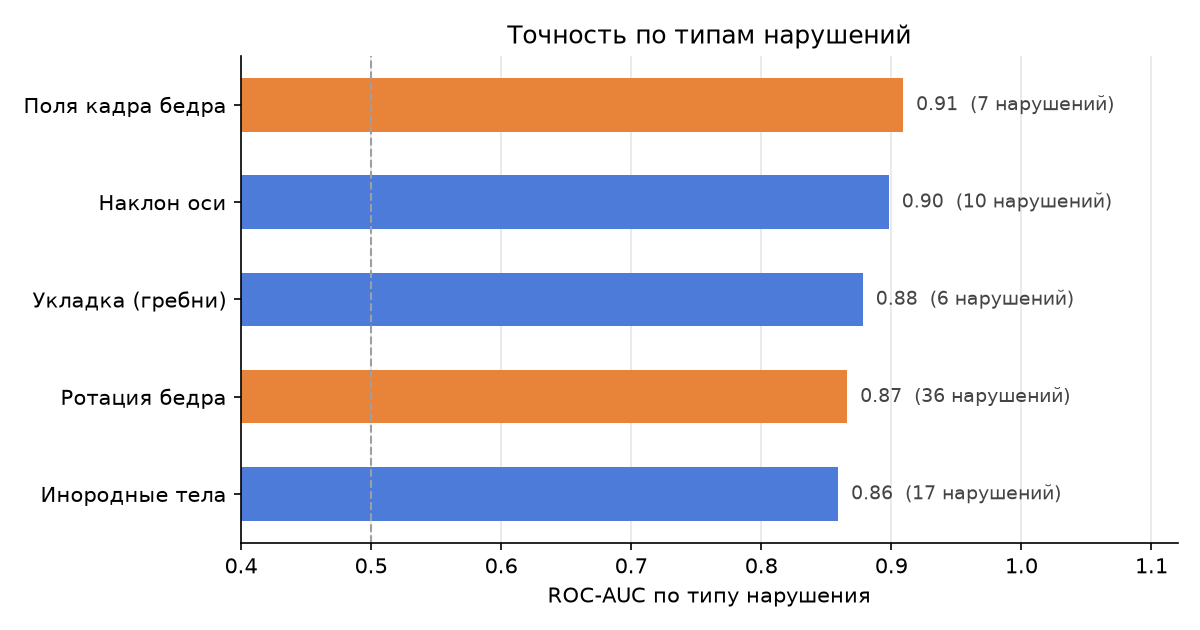
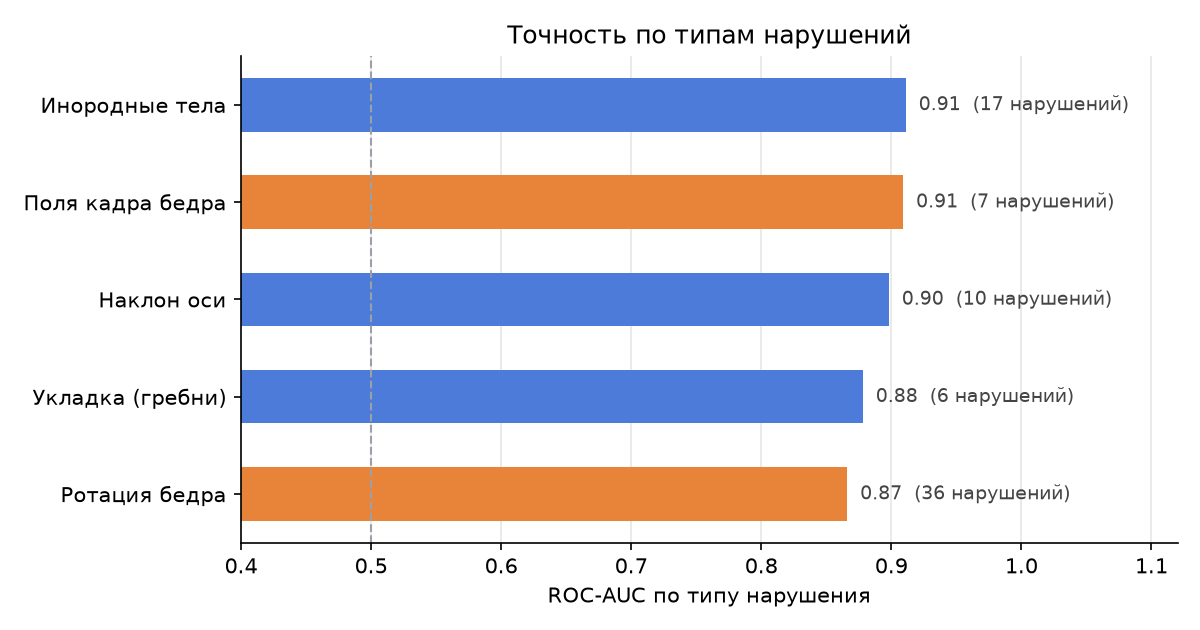
Отчёт и презентация: цифры после сегментационной сети

diff --git a/docs/night_report.md b/docs/night_report.md
@@ -547,6 +547,43 @@ F1 0.741, PR-AUC 0.690, чувствительность 0.83,
   минимум из трёх полей (0.893 сырым признаком, но в модели 0.875 против 0.909 у текущей пары).
   Ничего не выиграло.
 
+## 20. Ещё один заход по метрикам ТЗ
+
+**Инородные тела: два улучшения подряд, AUC типа 0.859 → 0.911, F1 0.709 → 0.797.**
+
+- Параметры детектора top-hat стояли «на глаз» с самого начала. Перебрали 27 сочетаний размера ядра,
+  порога и доли кадра сверху. Решает доля кадра: косточки белья и застёжки лежат в верхней **трети**,
+  а не в верхних 40 %. Выбор настроек внутри фолдов даёт честные 0.876 против 0.859.
+- Сегментационная сеть была обучена ещё ночью, но использовалась только для контура на картинке.
+  Теперь площадь найденного металла — второй признак в решении. На согласованных разбиениях:
+  ручной признак 0.898, сеть 0.822, вместе **0.911**. Оценка чуть оптимистична (OOF-оценки сети
+  получены на её собственном разбиении), поэтому доверять стоит именно этой паре чисел.
+
+**Проверено и отброшено в этом заходе:**
+
+- **устойчивость порогов к доле нарушений.** У нас 29 % плохих снимков, у организаторов в закрытом
+  наборе может быть больше. Порог по F1 зависит от доли, порог по сбалансированной точности — нет.
+  Смоделировали доли 29 / 40 / 50 %: наш выбор (по F1) остаётся лучшим везде (0.710 / 0.764 / 0.788
+  против 0.639 / 0.733 / 0.787). Менять не нужно, но теперь мы это знаем, а не предполагаем;
+- **второе бедро для полей кадра.** Для ротации подмешивание второго бедра дало +0.07 F1. Для полей
+  кадра корреляция между бёдрами всего 0.25 против 0.59 у ротации, и подмешивание только ухудшает
+  (0.911 → 0.899). Объяснение простое: ноги укладывают разом, а кадрирует лаборант каждое бедро
+  отдельно.
+
+**Текущие метрики:**
+
+| Разрез | ROC-AUC | PR-AUC | F1 | Чувств. | Специф. |
+|---|---|---|---|---|---|
+| По снимкам (249) | 0.878 | 0.770 | **0.747** | 0.82 | 0.85 |
+| По исследованиям (100) | 0.855 | 0.853 | **0.816** | 0.88 | 0.75 |
+| Позвоночник (99) | 0.857 | 0.713 | 0.706 | 0.77 | 0.81 |
+| Бёдра (150) | 0.902 | 0.833 | 0.778 | 0.85 | 0.87 |
+
+По типам: поля кадра 0.909, инородные тела 0.911,
+наклон оси 0.898, укладка позвоночника 0.878,
+ротация 0.866; macro-F1 0.604. Скорость 0.09 с на снимок,
+около 0.2 с на исследование.
+
 ## 6. Что дальше / вопросы
 
 - Пороги сейчас подобраны на максимум F1 по нашим меткам; для врача, возможно, важнее чувствительность — обсудить.

diff --git a/docs/presentation.md b/docs/presentation.md
@@ -4,8 +4,8 @@
 какая картинка, и что сказать голосом. Картинки — в `docs/figures/` (графики) и `docs/night/`
 (снимки пациентов, их на слайды можно, в репозиторий нельзя).
 
-Ключевые числа, если нужно быстро: **ROC-AUC 0.878, F1 0.741** по снимкам и
-**AUC 0.851, F1 0.800** по исследованиям (кросс-валидация по пациентам), **0.08 с на снимок**, **499 из 499 файлов** архива
+Ключевые числа, если нужно быстро: **ROC-AUC 0.878, F1 0.747** по снимкам и
+**AUC 0.855, F1 0.816** по исследованиям (кросс-валидация по пациентам), **0.08 с на снимок**, **499 из 499 файлов** архива
 обработано без единой ошибки.
 
 ---
@@ -113,14 +113,14 @@ DICOM → нормализация → «свой/чужой» снимок → 
 
 | | ROC-AUC | PR-AUC | F1 | Чувствительность | Специфичность |
 |---|---|---|---|---|---|
-| Позвоночник (99) | 0.86 [0.78–0.93] | 0.70 | 0.69 | 0.81 | 0.77 |
+| Позвоночник (99) | 0.86 [0.78–0.93] | 0.71 | 0.71 | 0.77 | 0.81 |
 | Бёдра (150) | 0.90 [0.84–0.95] | 0.83 | 0.78 | 0.85 | 0.87 |
-| **Всего (249 снимков)** | **0.88 [0.83–0.92]** | 0.77 | **0.74** | 0.83 | 0.83 |
-| **По исследованиям (100)** | **0.85 [0.77–0.92]** | 0.85 | **0.80** | 0.88 | 0.71 |
+| **Всего (249 снимков)** | **0.88 [0.83–0.92]** | 0.77 | **0.75** | 0.82 | 0.85 |
+| **По исследованиям (100)** | **0.85 [0.78–0.92]** | 0.85 | **0.82** | 0.88 | 0.75 |
 
 ТЗ просит чувствительность выявления **исследований** — это последняя строка: 0.88 при 100 исследованиях.
-По типам: поля кадра 0.91, наклон оси 0.90, укладка позвоночника 0.88, ротация бедра 0.87,
-инородные тела 0.86; macro-F1 по типам 0.59.
+По типам: поля кадра 0.91, инородные тела 0.91, наклон оси 0.90, укладка позвоночника 0.88,
+ротация бедра 0.87; macro-F1 по типам 0.60.
 Локализация: ключевые точки в среднем 4 мм, инородные тела — 67 % объектов найдено,
 86 % найденного лежит на объекте.
 
